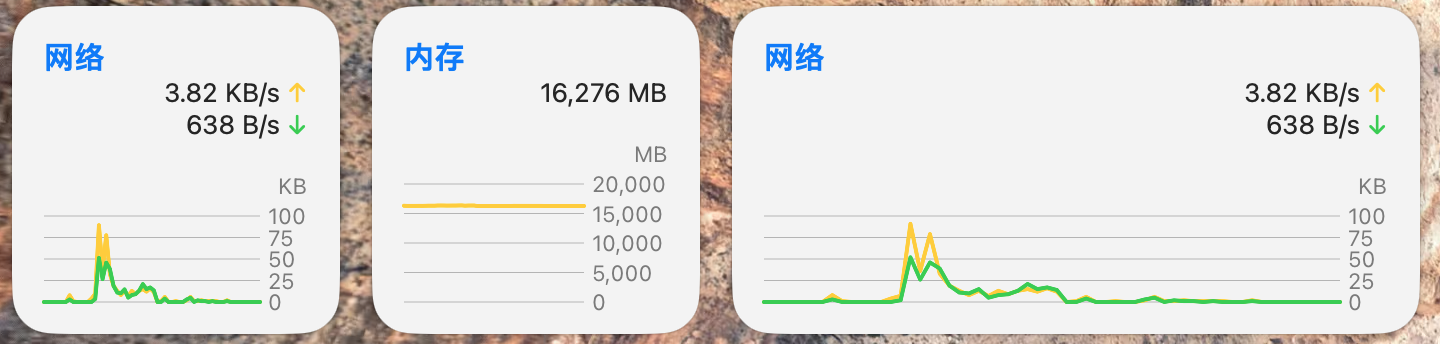
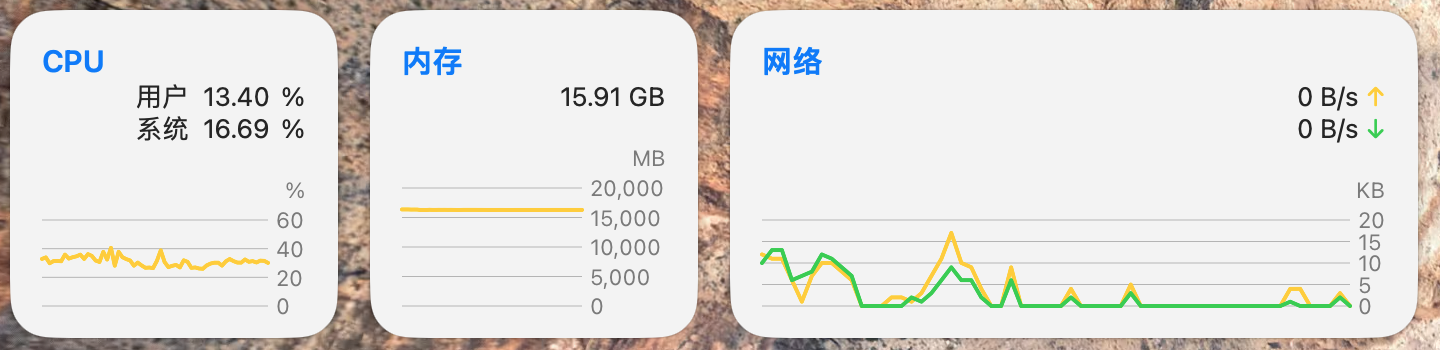
format

diff --git a/widget/MemoryWidget.swift b/widget/MemoryWidget.swift
@@ -10,15 +10,13 @@ import Charts
 import SwiftUI
 import WidgetKit
 
-
 struct MemoryWidgetEntryView: View {
     var entry: Provider.Entry
-
-    
 
     var history: [MemoryUsageInfo] {
         entry.data?.memory ?? []
     }
+
     var body: some View {
         VStack(spacing: 16) {
             if history.isEmpty {
@@ -35,7 +33,9 @@ struct MemoryWidgetEntryView: View {
                     HStack {
                         Spacer()
                         Group {
-                            Text("\(entry.data?.memory.last?.usageMB ?? 0)") + Text(" MB")
+                            Text(String(format: "%.2f",
+                                                  entry.data?.memory.last?.usageGB ?? 0)
+                            ) + Text(" GB")
 //                                .foregroundStyle(widgetBundle.firstColor)
                         }
                     }
@@ -57,8 +57,6 @@ struct MemoryWidgetEntryView: View {
                         series: .value("Usage", "Usage")
                     )
                     .foregroundStyle(widgetBundle.firstColor)
-
-                    
                 }
                 .chartXAxis(.hidden)
                 .chartYAxisLabel("MB")

diff --git a/monitor/model/SharedData.swift b/monitor/model/SharedData.swift
@@ -111,6 +111,10 @@ struct MemoryUsageInfo: Codable, Identifiable {
     
     var id: Date { timestamp }
     
+    var usageGB: Double {
+        Double(usageMB) / Double(1024)
+    }
+    
     var usagePercentage: Double {
         usageMB == 0 || totoalMB == 0 ? 0 : Double(usageMB / totoalMB)
     }
